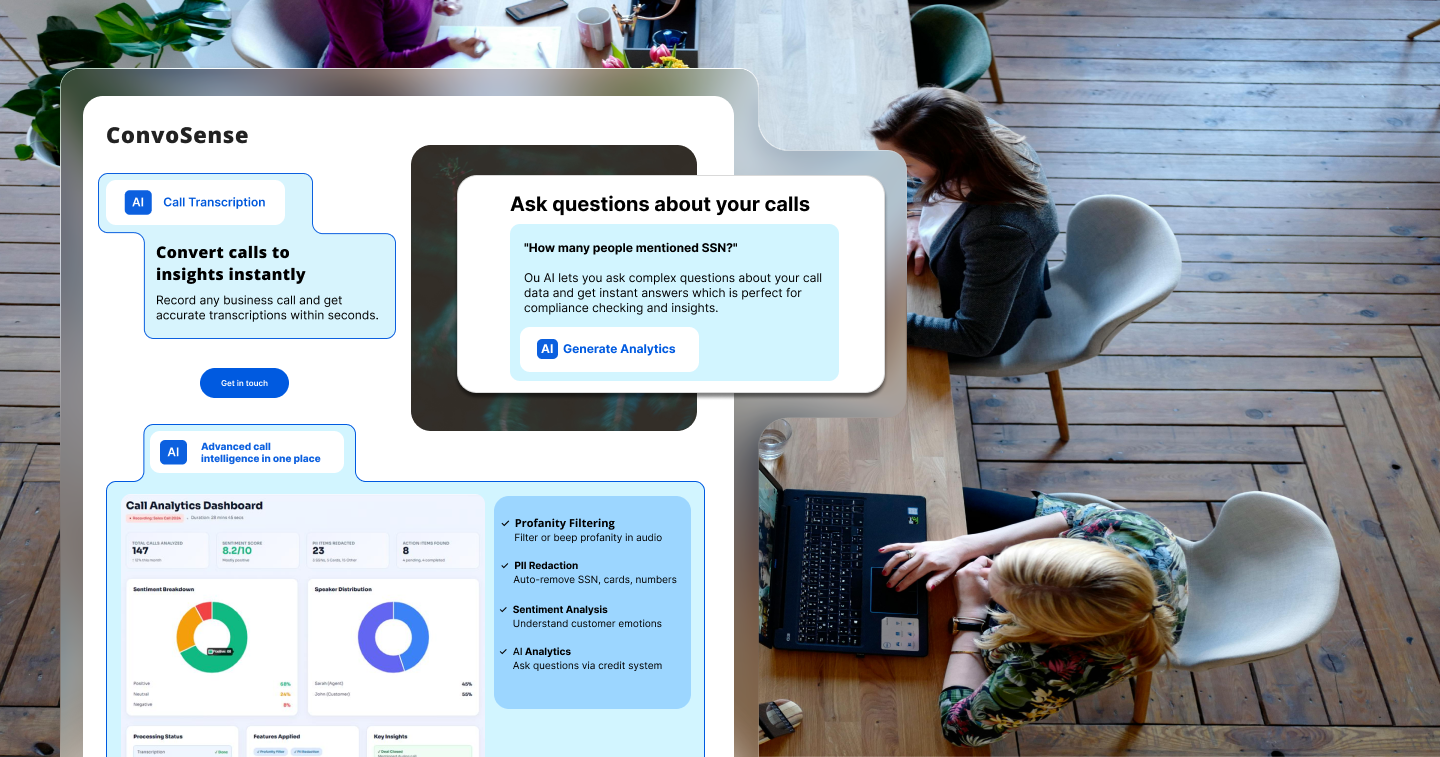
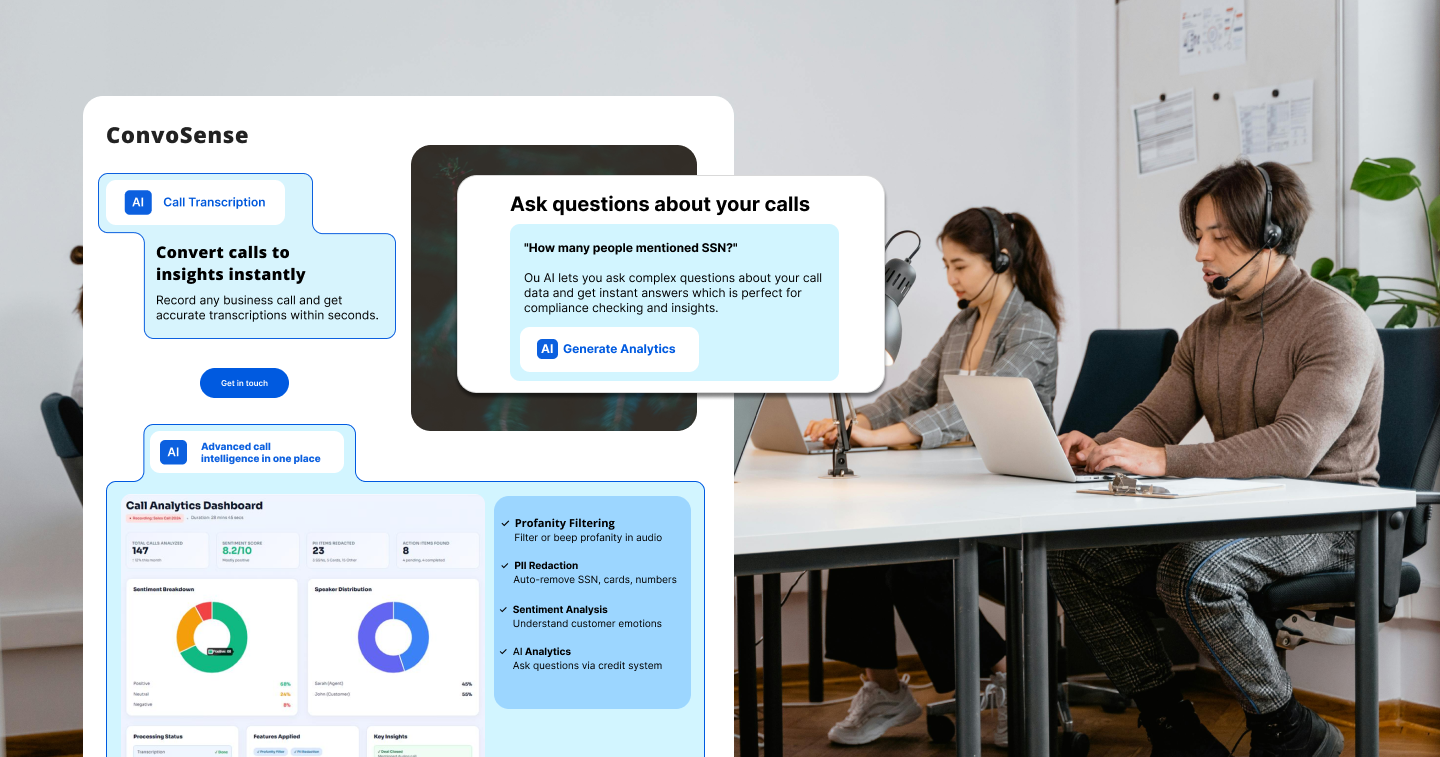
update image of index hero

diff --git a/main.css b/main.css
@@ -460,8 +460,8 @@ figcaption {
 }
 
 .section {
-    padding-top: 7rem;
-    padding-bottom: 7rem
+    padding-top: 5rem;
+    padding-bottom: 5rem
 }
 
 .section.background-gradient-pink-light.overflow-hidden {
